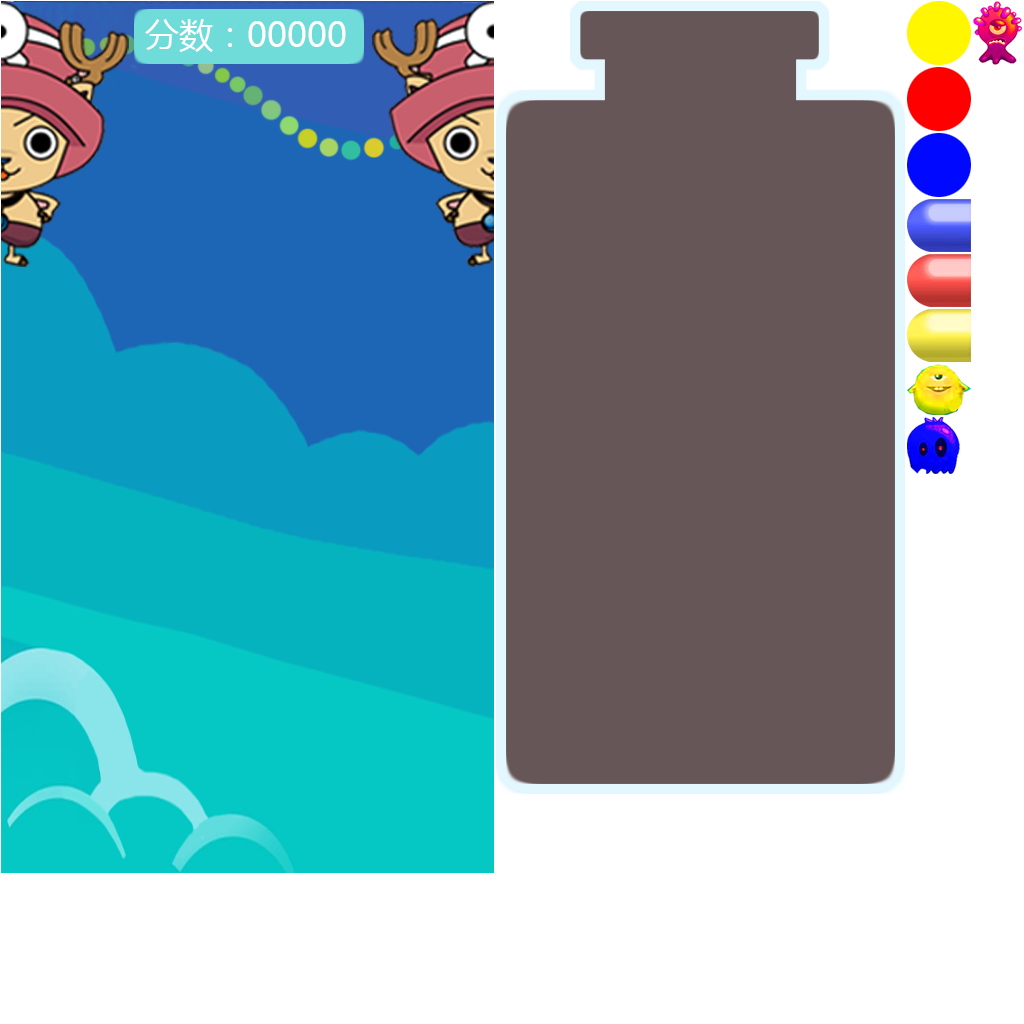
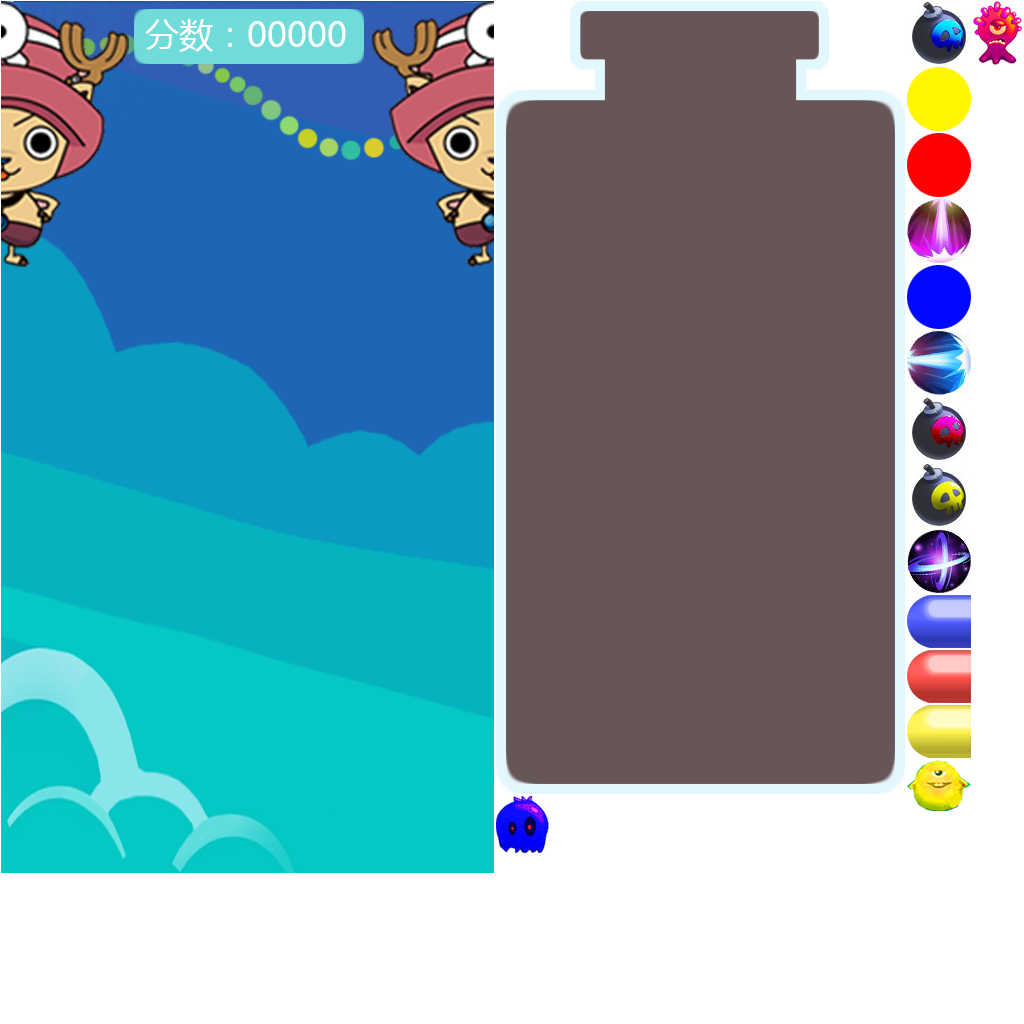
特殊功能道具开发，和功能道具的贴图资源合入

Changed region(s): [[0.875, 0.0, 0.9688, 0.8125], [0.4688, 0.7812, 0.5312, 0.8438]]

diff --git a/PDProject/src/GameElement/DataElement/Scene.ts b/PDProject/src/GameElement/DataElement/Scene.ts
@@ -459,8 +459,8 @@ class Scene extends GameModuleComponentBase
             }
         }
 
-        if (cloumnCount >= Scene.EliminateMinCount
-            || rowCount >= Scene.EliminateMinCount)
+        if (cloumnCount >= element.eliminateMinCount
+            || rowCount >= element.eliminateMinCount)
         {
             needEliminate = true;
         }
@@ -548,7 +548,9 @@ class Scene extends GameModuleComponentBase
     public IsCanRotateAcwTarget(elements: SceneElementBase[], targetPosList: number[]): boolean
     {
         var canRotate = false;
-        if (elements.length * 2 == targetPosList.length)
+        if (elements != null
+            && targetPosList != null
+            && elements.length * 2 == targetPosList.length)
         {
             var result = this.RemoveElementGroup(elements);
             if (DEBUG)
@@ -578,7 +580,9 @@ class Scene extends GameModuleComponentBase
     {
         var result = false;
 
-        if (elements.length * 2 == targetPosList.length)
+        if (elements != null
+            && targetPosList != null
+            && elements.length * 2 == targetPosList.length)
         {
             result = this.RemoveElementGroup(elements);
             if (DEBUG)

diff --git a/PDProject/src/FrameWork/Tools.ts b/PDProject/src/FrameWork/Tools.ts
@@ -125,4 +125,45 @@ class Tools
 		}
 		return target;
 	}
+
+	// 计算以某个点为中心，range为单边扩充数量的一列坐标
+	public static GetColunmPosList(centerX: number, centerY: number, range: number): number[]
+	{
+		var target: number[] = [];
+		for (var y = -range; y <= range; ++y)
+		{
+			target.push(centerX , centerY + y);
+		}
+		return target;
+	}
+
+	// 计算以某个点为中心，range为单边扩充数量的一行坐标
+	public static GetRowPosList(centerX: number, centerY: number, range: number): number[]
+	{
+		var target: number[] = [];
+		for (var x = -range; x <= range; ++x)
+		{
+			target.push(centerX + x , centerY);
+		}
+		return target;
+	}
+
+	// 计算以某个点为中心，range为单边扩充数量的一行和一列坐标
+	public static GetCrossPosList(centerX: number, centerY: number, range: number): number[]
+	{
+		var target: number[] = [];
+		for (var y = -range; y <= range; ++y)
+		{
+			target.push(centerX , centerY + y);
+		}
+
+		for (var x = -range; x <= range; ++x)
+		{
+			if (x != 0)
+			{
+				target.push(centerX + x, centerY);
+			}
+		}
+		return target;
+	}
 }

diff --git a/PDProject/src/GameElement/GameplayElement/ControlableElement/CrossEliminater.ts b/PDProject/src/GameElement/GameplayElement/ControlableElement/CrossEliminater.ts
@@ -2,6 +2,7 @@
 class CrossEliminater extends EliminateTool
 {
     private sceneCrossEliminater:SceneCrossEliminater;
+    private range: number;
 
     public constructor()
     {
@@ -9,6 +10,7 @@ class CrossEliminater extends EliminateTool
         this.sceneCrossEliminater = new SceneCrossEliminater(this);
         this.sceneCrossEliminater.MoveTo(3,0);
         this.eliminateType = EliminateType.Cloumn;
+        this.range = Math.max(Scene.Rows, Scene.Columns);
     }
 
     //todo
@@ -21,5 +23,14 @@ class CrossEliminater extends EliminateTool
     protected FillSceneElementArray()
     {
         this.sceneElements.push(this.sceneCrossEliminater);
+    }
+
+    public OnOnEliminate():boolean
+    {
+        var specialEliminateEvent = new SpecialEliminateRequestEvent();
+        specialEliminateEvent.triggerElement = this.sceneCrossEliminater;
+        specialEliminateEvent.targetPosList = Tools.GetCrossPosList(this.sceneCrossEliminater.posx, this.sceneCrossEliminater.posy, this.range);
+        GameMain.GetInstance().DispatchEvent(specialEliminateEvent);
+        return true;
     }
 }

diff --git a/PDProject/src/GameElement/GameplayElement/ControlableElement/ColunmEliminater.ts b/PDProject/src/GameElement/GameplayElement/ControlableElement/ColunmEliminater.ts
@@ -2,6 +2,7 @@
 class ColumnEliminater extends EliminateTool
 {
     private sceneColumnEliminater:SceneColunmEliminater;
+    private range: number;
 
     public constructor()
     {
@@ -9,6 +10,7 @@ class ColumnEliminater extends EliminateTool
         this.sceneColumnEliminater = new SceneColunmEliminater(this);
         this.sceneColumnEliminater.MoveTo(3,0);
         this.eliminateType = EliminateType.Cloumn;
+        this.range = Scene.Rows;
     }
 
     //todo
@@ -21,5 +23,14 @@ class ColumnEliminater extends EliminateTool
     protected FillSceneElementArray()
     {
         this.sceneElements.push(this.sceneColumnEliminater);
+    }
+
+    public OnOnEliminate():boolean
+    {
+        var specialEliminateEvent = new SpecialEliminateRequestEvent();
+        specialEliminateEvent.triggerElement = this.sceneColumnEliminater;
+        specialEliminateEvent.targetPosList = Tools.GetColunmPosList(this.sceneColumnEliminater.posx, this.sceneColumnEliminater.posy, this.range);
+        GameMain.GetInstance().DispatchEvent(specialEliminateEvent);
+        return true;
     }
 }

diff --git a/PDProject/src/GameElement/GameplayElement/ControlableElement/RowEliminater.ts b/PDProject/src/GameElement/GameplayElement/ControlableElement/RowEliminater.ts
@@ -2,6 +2,7 @@
 class RowEliminater extends EliminateTool
 {
     private sceneRowEliminater:SceneRowEliminater;
+    private range: number;
 
     public constructor()
     {
@@ -9,6 +10,7 @@ class RowEliminater extends EliminateTool
         this.sceneRowEliminater = new SceneRowEliminater(this);
         this.sceneRowEliminater.MoveTo(3,0);
         this.eliminateType = EliminateType.Row;
+        this.range = Scene.Columns;
     }
 
     //todo
@@ -21,5 +23,14 @@ class RowEliminater extends EliminateTool
     protected FillSceneElementArray()
     {
         this.sceneElements.push(this.sceneRowEliminater);
+    }
+    
+    public OnOnEliminate():boolean
+    {
+        var specialEliminateEvent = new SpecialEliminateRequestEvent();
+        specialEliminateEvent.triggerElement = this.sceneRowEliminater;
+        specialEliminateEvent.targetPosList = Tools.GetRowPosList(this.sceneRowEliminater.posx, this.sceneRowEliminater.posy, this.range);
+        GameMain.GetInstance().DispatchEvent(specialEliminateEvent);
+        return true;
     }
 }

diff --git a/PDProject/src/GameElement/GameplayElement/ControlableElement/Vitamins.ts b/PDProject/src/GameElement/GameplayElement/ControlableElement/Vitamins.ts
@@ -2,10 +2,12 @@
 class Vitamins extends EliminateTool
 {
     private sceneVitamins:SceneVitamins;
+    private range:number; //范围
 
     public constructor()
     {
         super();
+        this.range = 1;
         this.sceneVitamins = new SceneVitamins(this);
         this.sceneVitamins.MoveTo(3,0);
         this.eliminateType = EliminateType.Range;
@@ -27,7 +29,7 @@ class Vitamins extends EliminateTool
     {
         var specialEliminateEvent = new SpecialEliminateRequestEvent();
         specialEliminateEvent.triggerElement = this.sceneVitamins;
-        specialEliminateEvent.targetPosList = Tools.GetSquareRangePosList(this.sceneVitamins.posx, this.sceneVitamins.posy, 1);
+        specialEliminateEvent.targetPosList = Tools.GetSquareRangePosList(this.sceneVitamins.posx, this.sceneVitamins.posy, this.range);
         GameMain.GetInstance().DispatchEvent(specialEliminateEvent);
         return true;
     }

diff --git a/PDProject/src/GameElement/SceneElement/SceneColunmEliminater.ts b/PDProject/src/GameElement/SceneElement/SceneColunmEliminater.ts
@@ -5,15 +5,16 @@ class SceneColunmEliminater extends SceneElementBase
         super(owner);
         this.renderer = new egret.Bitmap();       
         this.canDrop = true;
+        this.color = GameElementColor.random;
+        this.eliminateMinCount = 1;
         this.RefreshTexture();
     }
 
     public RefreshTexture():void
     {
         let texture: egret.Texture;
-        let path = "pd_res_json.Virus_Red";
+        let path = "pd_res_json.ColunmEliminater";
         texture = this.GetTexture(path);
 		this.renderer.texture = texture;
-        this.renderer.rotation = 270;
     }
 }

diff --git a/PDProject/src/GameElement/SceneElement/SceneCrossEliminater.ts b/PDProject/src/GameElement/SceneElement/SceneCrossEliminater.ts
@@ -5,15 +5,16 @@ class SceneCrossEliminater extends SceneElementBase
         super(owner);
         this.renderer = new egret.Bitmap();       
         this.canDrop = true;
+        this.color = GameElementColor.random;
+        this.eliminateMinCount = 1;
         this.RefreshTexture();
     }
 
     public RefreshTexture():void
     {
         let texture: egret.Texture;
-        let path = "pd_res_json.Virus_Red";
+        let path = "pd_res_json.CrossEliminater";
         texture = this.GetTexture(path);
 		this.renderer.texture = texture;
-        this.renderer.rotation = 180;
     }
 }

diff --git a/PDProject/src/GameElement/SceneElement/SceneRowEliminater.ts b/PDProject/src/GameElement/SceneElement/SceneRowEliminater.ts
@@ -5,15 +5,16 @@ class SceneRowEliminater extends SceneElementBase
         super(owner);
         this.renderer = new egret.Bitmap();       
         this.canDrop = true;
+        this.color = GameElementColor.random;
+        this.eliminateMinCount = 1;
         this.RefreshTexture();
     }
 
     public RefreshTexture():void
     {
         let texture: egret.Texture;
-        let path = "pd_res_json.Virus_Red";
+        let path = "pd_res_json.RowEliminater";
         texture = this.GetTexture(path);
 		this.renderer.texture = texture;
-        this.renderer.rotation = 90;
     }
 }

diff --git a/PDProject/src/GameElement/SceneElement/SceneVitamins.ts b/PDProject/src/GameElement/SceneElement/SceneVitamins.ts
@@ -7,13 +7,14 @@ class SceneVitamins extends SceneElementBase
         this.color = this.RandomColor(); 
         this.canDrop = true;
         this.RefreshTexture();
+        this.eliminateMinCount = Scene.EliminateMinCount;
     }
 
     public RefreshTexture():void
     {
         let texture: egret.Texture;
         //todo
-        let path = "pd_res_json.Virus_";
+        let path = "pd_res_json.Vitamins_";
         switch(this.color)
         {
             case GameElementColor.red:

diff --git a/PDProject/src/GameElement/SceneElement/ScenePill.ts b/PDProject/src/GameElement/SceneElement/ScenePill.ts
@@ -7,6 +7,7 @@ class ScenePill extends SceneElementBase
         this.renderer = new egret.Bitmap();
         this.color = this.RandomColor();
         this.canDrop = true;
+        this.eliminateMinCount = Scene.EliminateMinCount;
     }
 
     public SetPillType(pillType: PillElementType)

diff --git a/PDProject/src/GameElement/SceneElement/SceneVirus.ts b/PDProject/src/GameElement/SceneElement/SceneVirus.ts
@@ -6,6 +6,7 @@ class SceneVirus extends SceneElementBase
         this.renderer = new egret.Bitmap();       
         this.color = this.RandomColor(); 
         this.canDrop = false;
+        this.eliminateMinCount = Scene.EliminateMinCount;
         this.RefreshTexture();
     }
 
